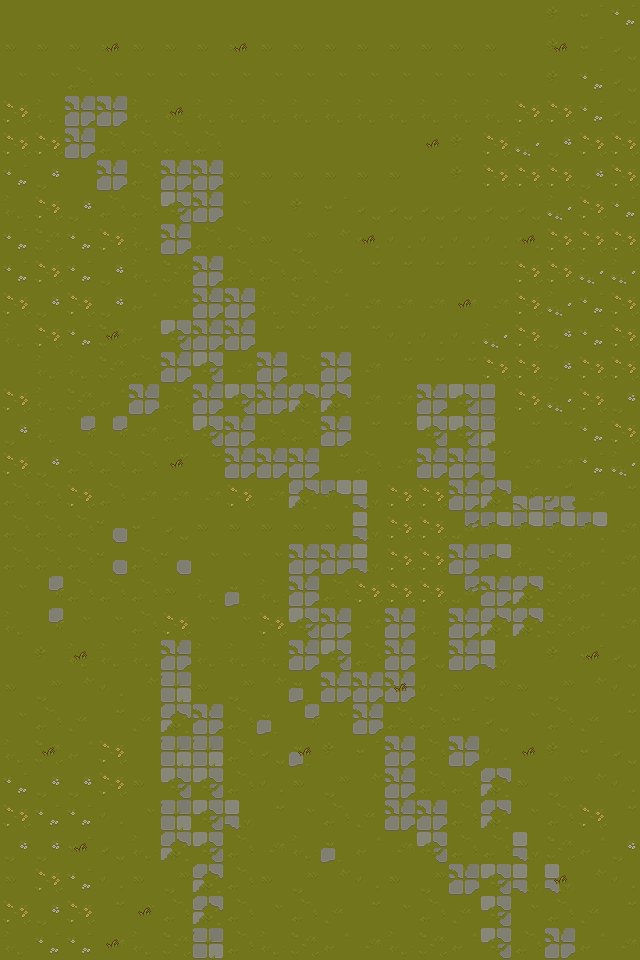
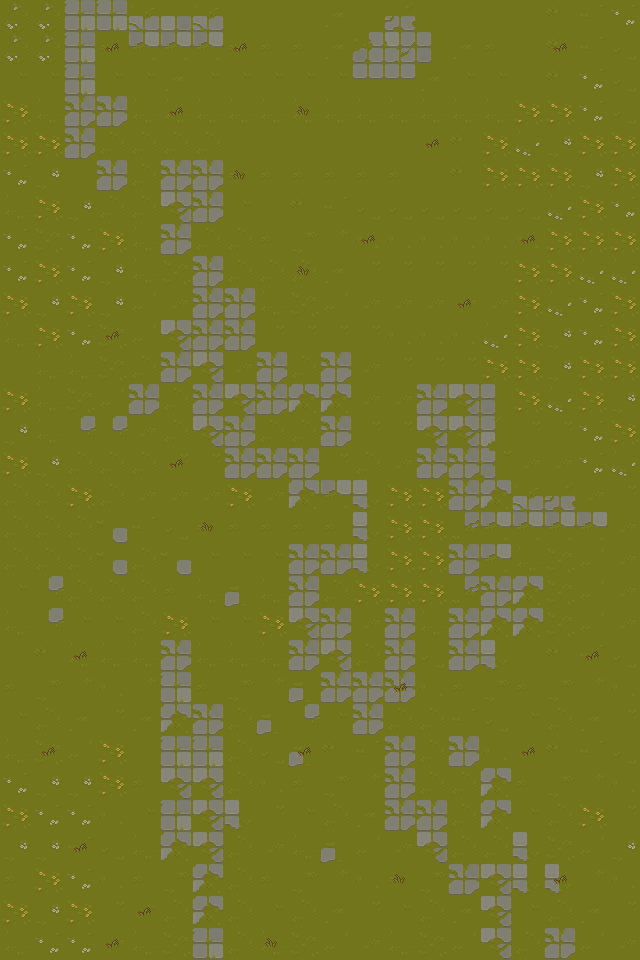
added menu

Changed region(s): [[0.0938, 0.0, 0.3438, 0.125], [0.5312, 0.0, 0.6875, 0.0938]]

diff --git a/src/scenes/Play.js b/src/scenes/Play.js
@@ -2,10 +2,26 @@ class Play extends Phaser.Scene {
     constructor() {
         super("playScene")
 
-        this.spawnDelayMin = 500
-        this.spawnDelayMax = 1000
-        this.bgspeedIncrement = 0.02
-        this.treeSpeedIncrement = 0.02
+        if (!game.settings) {
+            console.warn("game.settings is undefined. Using default values.");
+            game.settings = {
+                bgSpeed: 1,
+                treeSpeed: 1,
+                horseVelo: 140,
+                spawnDelayMin: 500,
+                spawnDelayMax: 1000,
+                bgspeedIncrement: 0.02,
+                treeSpeedIncrement: 0.02
+            };
+        }
+
+        this.bgSpeed = game.settings.bgSpeed
+        this.treeSpeed = game.settings.treeSpeed
+        this.horseVelo = game.settings.horseVelo
+        this.spawnDelayMin = game.settings.spawnDelayMin
+        this.spawnDelayMax = game.settings.spawnDelayMax
+        this.bgspeedIncrement = game.settings.bgspeedIncrement
+        this.treeSpeedIncrement = game.settings.treeSpeedIncrement
     }
 
     create() {
@@ -18,23 +34,23 @@ class Play extends Phaser.Scene {
         })
 
         let depth = 1000
-        // for (let i = 0; i < 2; i++) {
-        //     let x = Phaser.Math.Between(0, this.scale.width)
-        //     let y = Phaser.Math.Between(-100, 0)
-        //     let tree = new Tree(this, x, y, 'bigTree', 0, 10)
-        //     tree.setDepth(depth)
-        //     this.trees.add(tree)
-        //     depth--
-        // } 
+        for (let i = 0; i < 2; i++) {
+            let x = Phaser.Math.Between(0, this.scale.width)
+            let y = Phaser.Math.Between(-1000, 0)
+            let tree = new Tree(this, x, y, 'bigTree', 0, 10)
+            tree.setDepth(depth)
+            this.trees.add(tree)
+            depth--
+        } 
         
-        // for (let i = 0; i < 4; i++) {
-        //     let x = Phaser.Math.Between(0, this.scale.width)
-        //     let y = Phaser.Math.Between(-100, 0)
-        //     let tree = new Tree(this, x, y, 'smallTree', 0, 10)
-        //     tree.setDepth(depth)
-        //     this.trees.add(tree)
-        //     depth--
-        // } 
+        for (let i = 0; i < 4; i++) {
+            let x = Phaser.Math.Between(0, this.scale.width)
+            let y = Phaser.Math.Between(-1000, 0)
+            let tree = new Tree(this, x, y, 'smallTree', 0, 10)
+            tree.setDepth(depth)
+            this.trees.add(tree)
+            depth--
+        } 
 
         // Add timed event to spawn new trees at random intervals by recycling existing ones
         this.spawnTreeEvent = this.time.addEvent({
@@ -46,21 +62,21 @@ class Play extends Phaser.Scene {
 
         // Add timed event to adjust spawn delay over time
         this.time.addEvent({
-            delay: 1000, // Adjust the delay every second
+            delay: 1000,
             callback: this.adjustSpawnDelay,
             callbackScope: this,
             loop: true
         })
 
         this.updateBgspeedEvent = this.time.addEvent({
-            delay: 1000, // Update bgspeed every second
+            delay: 1000,
             callback: this.updateBgspeed,
             callbackScope: this,
             loop: true
         })
 
         this.updateTreeSpeedEvent = this.time.addEvent({
-            delay: 1000, // Update bgspeed every second
+            delay: 1000,
             callback: this.updateBgspeed,
             callbackScope: this,
             loop: true
@@ -70,9 +86,11 @@ class Play extends Phaser.Scene {
     }
 
     update() {
-        this.map.tilePositionY -= bgSpeed
+        if (canControl) {
+            this.map.tilePositionY -= this.bgSpeed;
+        }
 
-        this.player.update()
+        this.player.update();
     }
 
     spawnTree() {

diff --git a/src/scenes/Load.js b/src/scenes/Load.js
@@ -5,6 +5,7 @@ class Load extends Phaser.Scene {
 
     preload() {
         this.load.image('bg', './assets/EndlessBg.png')
+        this.load.image('menubg', './assets/menubg.png')
         this.load.image('bigTree', './assets/treeBig.png')
         this.load.image('smallTree', './assets/treeSmall.png')
 
@@ -16,9 +17,14 @@ class Load extends Phaser.Scene {
             frameWidth: 98,
             frameHeight: 354
         })
+
+
     }    
 
     create() {
+
+        let bg = this.add.image(game.config.width / 2, game.config.height / 2, 'menubg');
+        bg.setOrigin(0.5);
 
         this.anims.create({
             key: 'idle',
@@ -34,6 +40,66 @@ class Load extends Phaser.Scene {
             frames: this.anims.generateFrameNumbers('hitTree', { start: 0, end: 15})
         })
 
-        this.scene.start('playScene')
+        
+        // // Load your local font
+        // const newFontFace = new FontFace('amegrin', 'url(./assets/amegrin-.woff)');
+        // newFontFace.load().then((loadedFont) => {
+        //     document.fonts.add(loadedFont);
+        //     console.log('Font loaded successfully!');
+        // })
+        
+
+        let menuCongif = {
+            fontFamily: 'amegrin',
+            fontSize: '28px',
+            color: '#843605',
+            align: 'right',
+            padding: {
+                top: 5,
+                bottom: 5,
+            },
+            fixedWidth: 0
+        }
+
+        this.add.text(game.config.width/2, game.config.height/5, 'Into The Distance', menuCongif).setOrigin(0.5)
+        this.add.text(game.config.width/2, game.config.height/3, 'Use the arrow keys to move!', menuCongif).setOrigin(0.5)
+        this.add.text(game.config.width/2, game.config.height/2, 'Make sure to avoid the trees to keep riding.', menuCongif).setOrigin(0.5)
+        this.add.text(game.config.width/2, game.config.height/3 * 2, 'Press <- for Regular or -> for Silly', menuCongif).setOrigin(0.5)
+
+        keyLEFT = this.input.keyboard.addKey(Phaser.Input.Keyboard.KeyCodes.LEFT)
+        keyRIGHT = this.input.keyboard.addKey(Phaser.Input.Keyboard.KeyCodes.RIGHT)
+
+
+    }
+
+    update() {
+        if (Phaser.Input.Keyboard.JustDown(keyLEFT)) {
+            //regular mode
+            game.settings = {
+                bgSpeed: 1,
+                treeSpeed: 1,
+                horseVelo: 140,
+                spawnDelayMin: 500,
+                spawnDelayMax: 1000,
+                bgspeedIncrement: 0.02,
+                treeSpeedIncrement: 0.02
+            };
+            //this.sound.play('sfx-select')
+            this.scene.start('playScene')
+        }
+        if (Phaser.Input.Keyboard.JustDown(keyRIGHT)) {
+            //silly mode
+            game.settings = {
+                bgSpeed: 2,
+                treeSpeed: 2,
+                horseVelo: 180,
+                spawnDelayMin: 300,
+                spawnDelayMax: 700,
+                bgspeedIncrement: 0.05,
+                treeSpeedIncrement: 0.05
+            };
+            //this.sound.play('sfx-select')
+            this.scene.start('playScene')
+        }
     }
 }

diff --git a/index.html b/index.html
@@ -4,13 +4,29 @@
     <meta charset="UTF-8">
     <meta name="viewport" content="width=device-width, initial-scale=1.0">
     <title>Into The Woods</title>
+    
+    <!-- Load the custom font -->
+    <script>
+        const newFontFace = new FontFace('amegrin', 'url(./assets/amegrin-.woff)');
+        
+        newFontFace.load().then((loadedFont) => {
+            document.fonts.add(loadedFont);
+            console.log('Font loaded successfully!');
+        }).catch((error) => {
+            console.error('Error loading font:', error);
+        });
+    </script>
+
+    <!-- Load Phaser and game scripts -->
     <script src="./lib/phaser.js"></script>
     <script src="./src/prefabs/Horse.js"></script>
     <script src="./src/prefabs/Tree.js"></script>
     <script src="./src/scenes/Load.js"></script>
     <script src="./src/scenes/Play.js"></script>
     <script src="./src/main.js"></script>
+
 </head>
 <body>
     <!-- Phaser will handle the <body> tag for us 💪 -->
 </body>
+</html>

diff --git a/src/main.js b/src/main.js
@@ -18,8 +18,8 @@ const config = {
 
 const game = new Phaser.Game(config)
 
+let keyLEFT, keyRIGHT
+
 let borderUIsize = game.config.height / 15
-let bgSpeed = 1
-let treeSpeed = 1
-let horseVelo = 140
+
 let canControl = true

diff --git a/src/prefabs/Horse.js b/src/prefabs/Horse.js
@@ -50,6 +50,7 @@ class Horse extends Phaser.Physics.Arcade.Sprite {
                     this.setVelocityY(0)
                 }
             }
+
         }
     }
 
